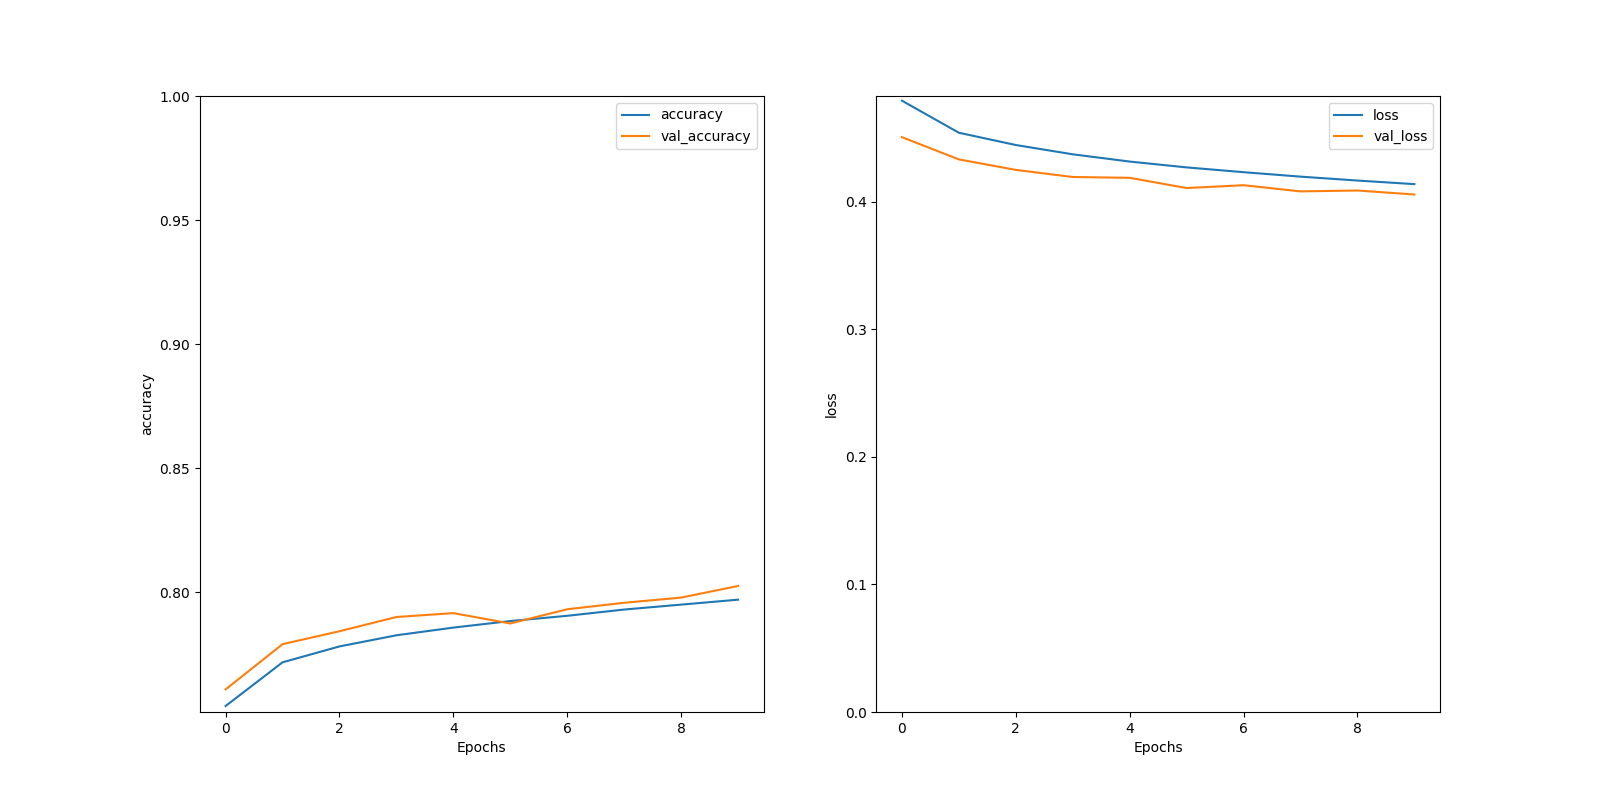
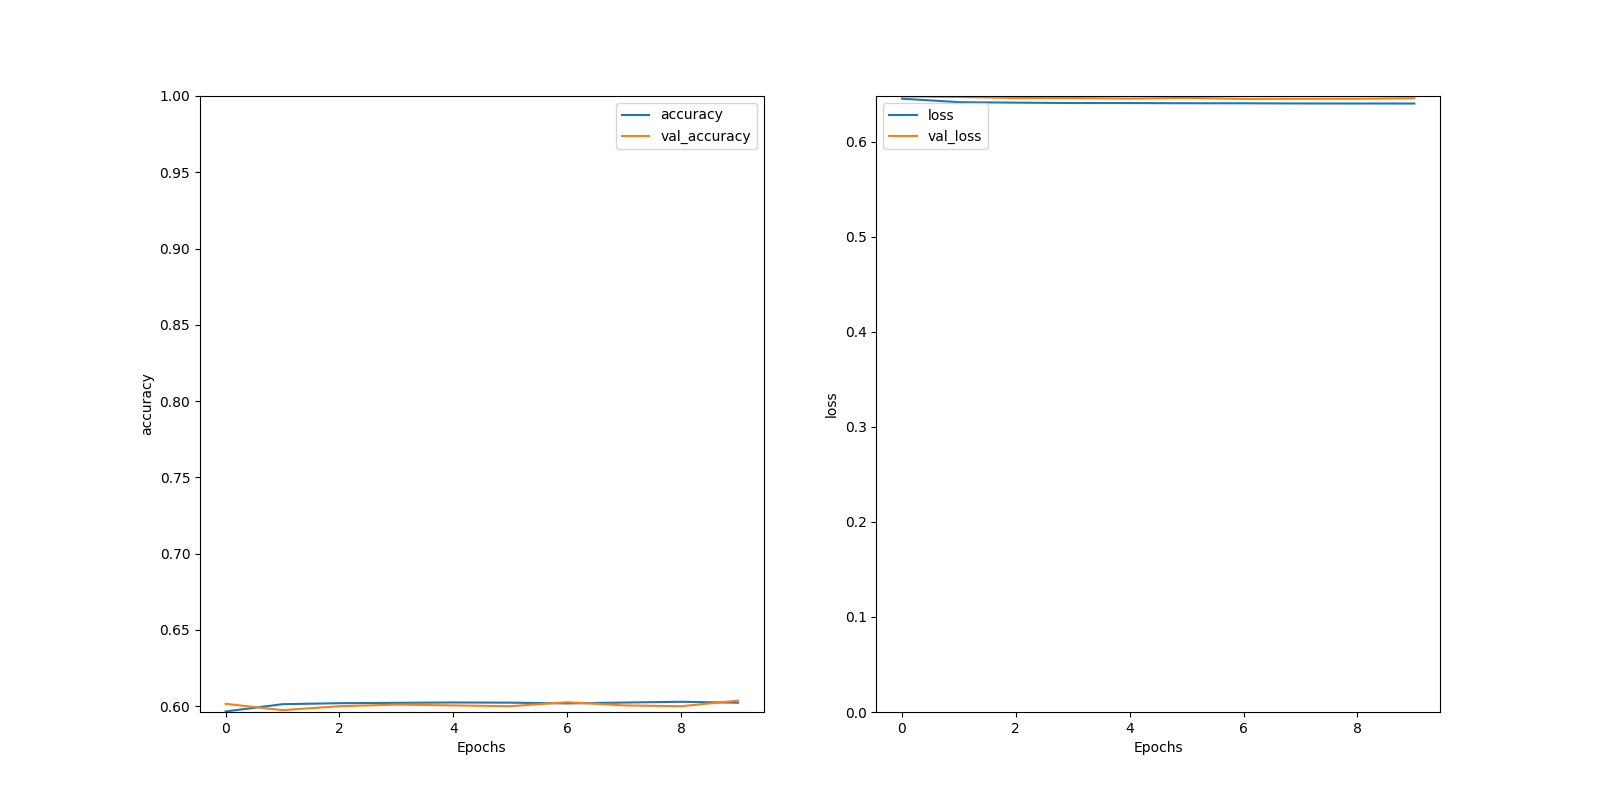
Fixed sarcasm, I think

diff --git a/code/main.py b/code/main.py
@@ -3,6 +3,7 @@ import tensorflow as tf
 import numpy as np
 from preprocess import get_twitter_data, get_imdb_data, get_sarcasm_data
 from lstm_model import LSTM_Model
+from holding_hands import Together_Model
 import hyperparameters as hp
 from matplotlib import pyplot as plt
 import os.path
@@ -11,7 +12,7 @@ import pickle
 def parseArguments():
     parser = argparse.ArgumentParser()
     #Options are imdb, sentiment140
-    parser.add_argument("--type", type=str, choices=["imdb", "twitter", "sarcasm", "twitter_sarcasm"], default="imdb") 
+    parser.add_argument("--type", type=str, choices=["imdb", "twitter", "sarcasm"], default="imdb") 
     parser.add_argument("--model_type", type=str, default="lstm")
     args = parser.parse_args()
     return args 
@@ -112,7 +113,7 @@ def train_twitter():
     save_weights(model, "twitter")
 
 def train_sarcasm():
-    (train_data, train_label, test_data, test_label, validation, encoder) = get_twitter_data()
+    (train_data, train_label, test_data, test_label, validation, encoder) = get_sarcasm_data()
     model = LSTM_Model(encoder)
     model.model.compile(loss=tf.keras.losses.BinaryCrossentropy(from_logits=True),
             optimizer=tf.keras.optimizers.Adam(1e-4),
@@ -126,6 +127,31 @@ def train_sarcasm():
     visualize_training(history, "sarcasm_dataset.png")
     save_encoder(encoder, "sarcasm_encoder.pkl")
     save_weights(model, "sarcasm")
+
+def train_sentiment_with_sarcasm():
+    (train_data, train_label, test_data, test_label, validation, encoder) = get_twitter_data()
+    encoder = load_encoder("twitter_encoder.pkl")
+    sentiment_model = LSTM_Model(encoder)
+    sentiment_model = load_weights(sentiment_model, "twitter")
+    
+    encoder = load_encoder("sarcasm_encoder.pkl")
+    sarcasm_model = LSTM_Model(encoder)
+    sarcasm_model = load_weights(sarcasm_model, "sarcasm")
+
+    model = Together_Model(sentiment_model, sarcasm_model)
+
+    model.compile(loss=tf.keras.losses.BinaryCrossentropy(from_logits=True),
+            optimizer=tf.keras.optimizers.Adam(1e-4),
+            metrics=['accuracy'])
+    
+    history = model.fit(train_data, train_label, epochs=hp.EPOCHS, batch_size=hp.BATCH_SIZE,
+            validation_data=validation,
+            validation_steps=30) 
+    test_loss, test_acc = model.evaluate(test_data, test_label)
+    print('Test Loss:', test_loss)
+    print('Test Accuracy:', test_acc)
+    visualize_training(history, "together.png")
+    save_weights(model, "together")
 
 def main(args):
     if args.type == "imdb":

diff --git a/code/preprocess.py b/code/preprocess.py
@@ -26,19 +26,20 @@ def get_data(train_path, n):
 
     # Text vectorization - abstracts away having to create a vocabulary and turning text into indices
     encoder = tf.keras.layers.TextVectorization(max_tokens=hp.VOCAB_SIZE)
-    encoder.adapt(train_df[hp.INPUT_IDX])
+    encoder.adapt(np.asarray(train_df[hp.INPUT_IDX]).astype('<U3'))
 
-    train_data = np.array(train_df[hp.INPUT_IDX])
-    train_label = np.array(train_df[hp.LABEL_IDX ] / hp.DENOM)
-    test_data = np.array(test_df[hp.INPUT_IDX])
-    test_label = np.array(test_df[hp.LABEL_IDX ] / hp.DENOM)
-    validation = (validation_df[hp.INPUT_IDX], validation_df[hp.LABEL_IDX] / hp.DENOM)
+    train_data = np.asarray(train_df[hp.INPUT_IDX]).astype('<U3')
+    train_label = np.asarray(train_df[hp.LABEL_IDX]).astype(int) / hp.DENOM
+    test_data = np.asarray(test_df[hp.INPUT_IDX]).astype('<U3')
+    test_label = np.asarray(test_df[hp.LABEL_IDX]).astype(int) / hp.DENOM
+    validation = (np.asarray(validation_df[hp.INPUT_IDX]).astype('<U3'), np.asarray(validation_df[hp.LABEL_IDX]).astype(int) / hp.DENOM)
 
     return (train_data, train_label, test_data, test_label, validation, encoder)
 
 # Splits large training dataset into testing and validation sets
 def split_data(data, skip):
     train = pd.read_csv(data, header=None, usecols=[hp.LABEL_IDX, hp.INPUT_IDX], encoding='latin-1', skiprows=skip)
+    train = train.drop(0)
     test = train.sample(frac=0.05)
     train = train.drop(test.index)
     validation = train.sample(frac=0.05)

diff --git a/code/stemming.py b/code/stemming.py
@@ -76,4 +76,4 @@ def preprocess(train_path, test_path, train_csv, test_csv):
 
 # Only works with Sentiment 140 dataset
 if __name__ == "__main__":
-    preprocess("training.1600000.processed.noemoticon.csv", "testdata.manual.2009.06.14.csv", "train_preprocessed.csv", "test_preprocessed.csv")
+    preprocess("../training.1600000.processed.noemoticon.csv", "../testdata.manual.2009.06.14.csv", "../train_preprocessed.csv", "../test_preprocessed.csv")

diff --git a/README.md b/README.md
@@ -7,9 +7,7 @@ Different models to train
 - Twitter Sentiment140 based sentiment analysis (either positive or negative) 
     - Run with option flag '--type twitter'
 - Twitter sarcasm detection (either sarcastic or not)
-    - Run with option flag '--type sarcasm' 
-- Run Sentiment and Sarcasm models in tandem fine tuning both models
-    - Run with option flag '--type together'
+    - Run with option flag '--type sarcasm'
 
 Ways to run repl
 - Pure sarcasm detection 
@@ -27,9 +25,6 @@ Sentiment140, 1.6 million tweets each tagged with a sentiment 0-4
 Sarcasm on Reddit -
 https://www.kaggle.com/danofer/sarcasm?select=test-balanced.csv
 Just download train-balanced-sarcasm.csv
-
-IDK if we need to setup a download.sh for this one lol
-If we do we will need to upload the file itself to some cloud service 
 
 ## Setup
 
